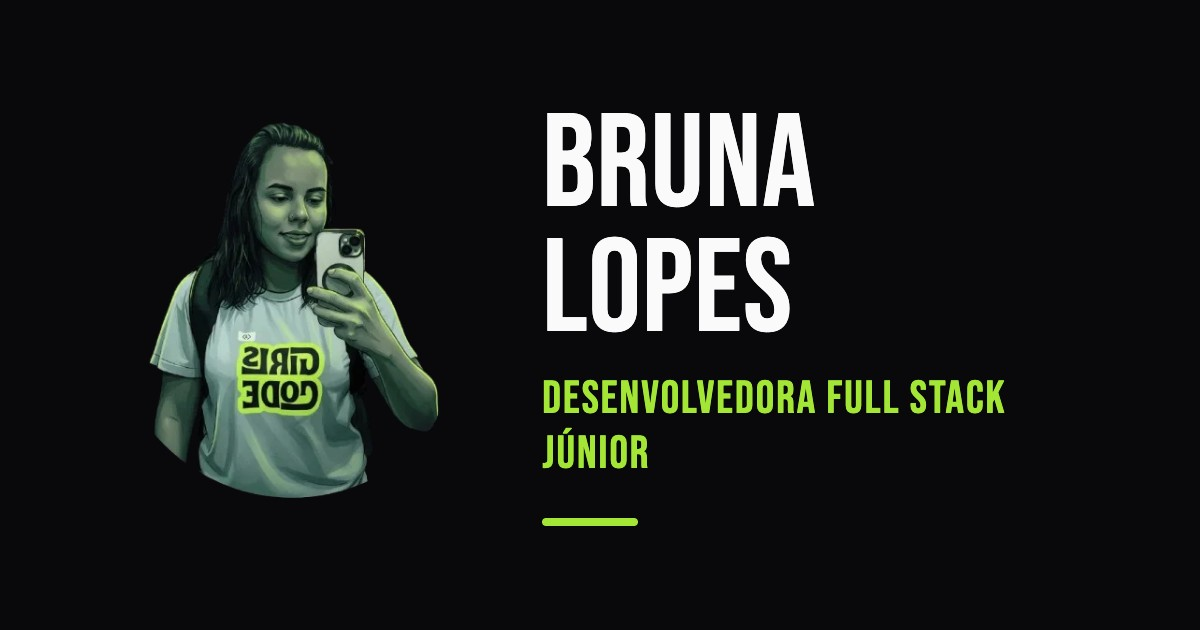
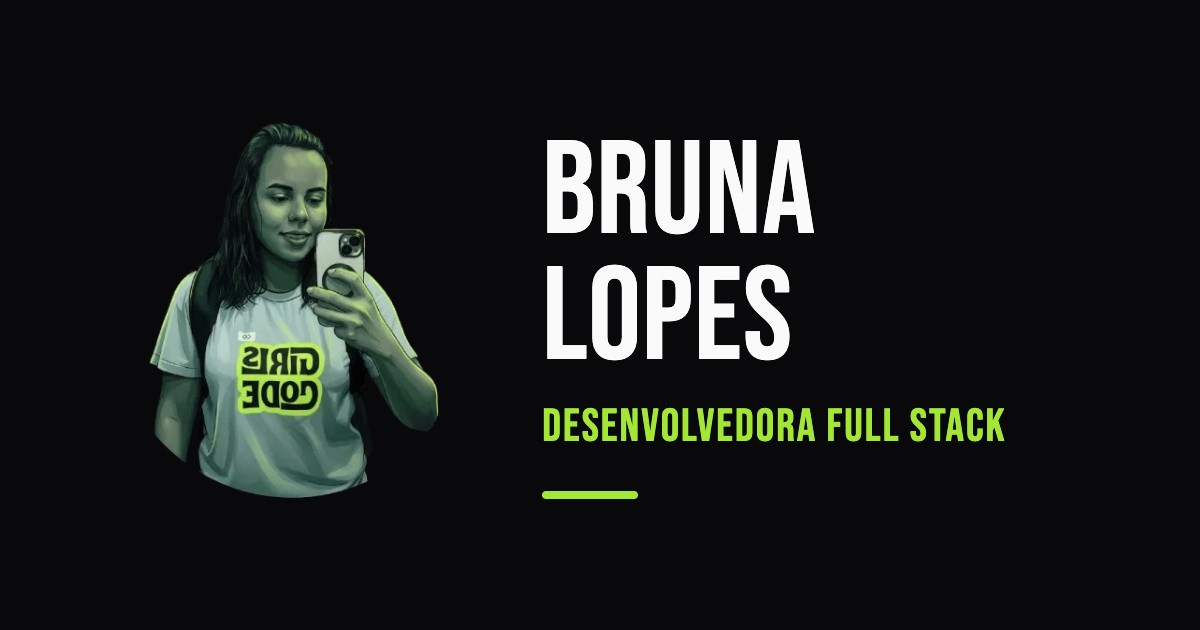
feat: atualizando texto.

Changed region(s): [[0.4317, 0.181, 0.6783, 0.573], [0.4317, 0.6032, 0.8325, 0.8444]]

diff --git a/index.html b/index.html
@@ -19,20 +19,20 @@
         }
       } catch (e) {}
     </script>
-    <title>Bruna Lopes | Desenvolvedora Full Stack Júnior</title>
+    <title>Bruna Lopes | Desenvolvedora Full Stack</title>
     <meta
       name="description"
-      content="Portfólio de Bruna Lopes, desenvolvedora full stack júnior com Python, FastAPI, Java, Spring Boot e React. Disponível para vagas e projetos freelance."
+      content="Portfólio de Bruna Lopes, desenvolvedora full stack com Python, FastAPI, Java, Spring Boot e React. Disponível para vagas e projetos freelance."
     />
 
     <!-- Prévia ao compartilhar o link (LinkedIn, WhatsApp, etc.) -->
     <meta property="og:type" content="website" />
     <meta property="og:locale" content="pt_BR" />
     <meta property="og:url" content="https://portifolio-bruna.onrender.com" />
-    <meta property="og:title" content="Bruna Lopes | Desenvolvedora Full Stack Júnior" />
+    <meta property="og:title" content="Bruna Lopes | Desenvolvedora Full Stack" />
     <meta
       property="og:description"
-      content="Portfólio de Bruna Lopes, desenvolvedora full stack júnior com Python, FastAPI, Java, Spring Boot e React. Disponível para vagas e projetos freelance."
+      content="Portfólio de Bruna Lopes, desenvolvedora full stack com Python, FastAPI, Java, Spring Boot e React. Disponível para vagas e projetos freelance."
     />
     <meta property="og:image" content="https://portifolio-bruna.onrender.com/og-image.jpg" />
     <meta property="og:image:width" content="1200" />

diff --git a/src/data/portfolio.js b/src/data/portfolio.js
@@ -17,7 +17,7 @@ import {
 
 export const profile = {
   nome: "Bruna Lopes",
-  cargo: "Desenvolvedora Full Stack Júnior",
+  cargo: "Desenvolvedora Full Stack",
   bio: "Desenvolvo sistemas que organizam dados e interfaces que dão gosto de usar.",
   bioCompleta:
     "Comecei a programar com um objetivo bem concreto: criar a minha própria loja online. No caminho, descobri que gosto dos dois lados do desenvolvimento. No backend, me interesso por modelar e manipular dados com Python, FastAPI, Java e Spring Boot. No frontend, gosto de construir telas bonitas e fluidas com React e Tailwind. Hoje curso Análise e Desenvolvimento de Sistemas e sigo estudando JavaScript e React. Para clientes, crio soluções que melhoram a produtividade do dia a dia e landing pages para divulgar negócios e projetos.",

diff --git a/README.md b/README.md
@@ -1,6 +1,6 @@
 # Portfólio Bruna Lopes
 
-Portfólio pessoal de Bruna Lopes, desenvolvedora full stack júnior em Fortaleza, CE, para apresentar projetos a recrutadores e receber contatos de clientes de freela.
+Portfólio pessoal de Bruna Lopes, desenvolvedora full stack em Fortaleza, CE, para apresentar projetos a recrutadores e receber contatos de clientes de freela.
 
 **Site:** https://portifolio-bruna.onrender.com
 
